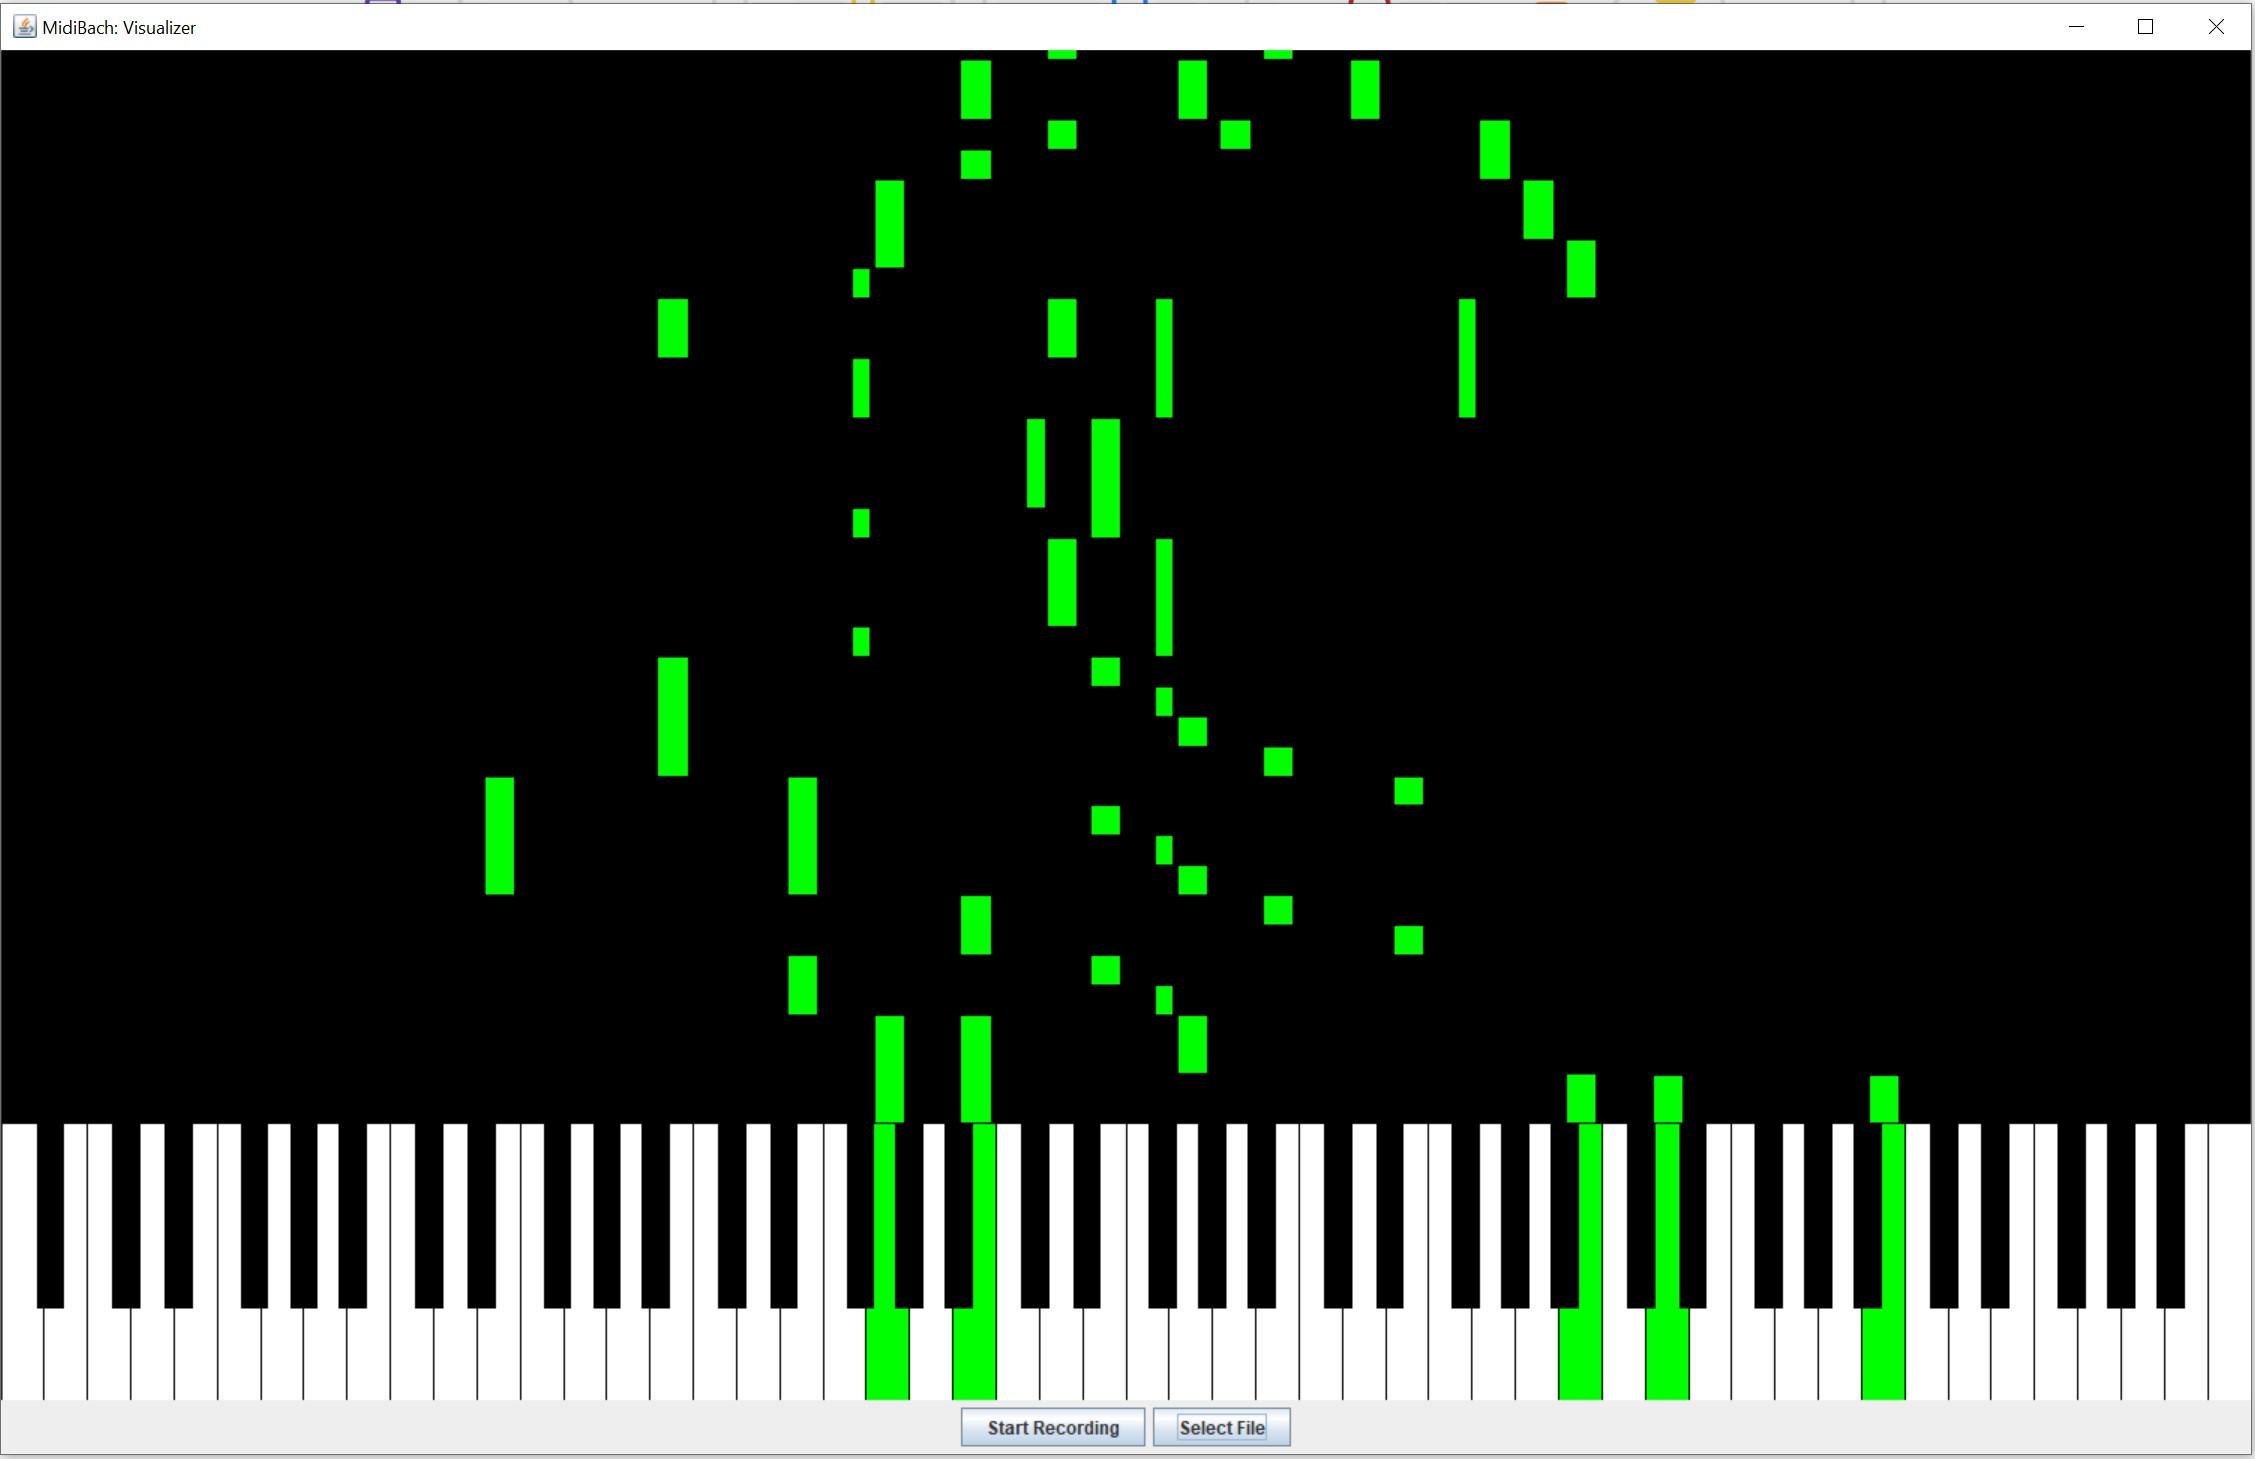
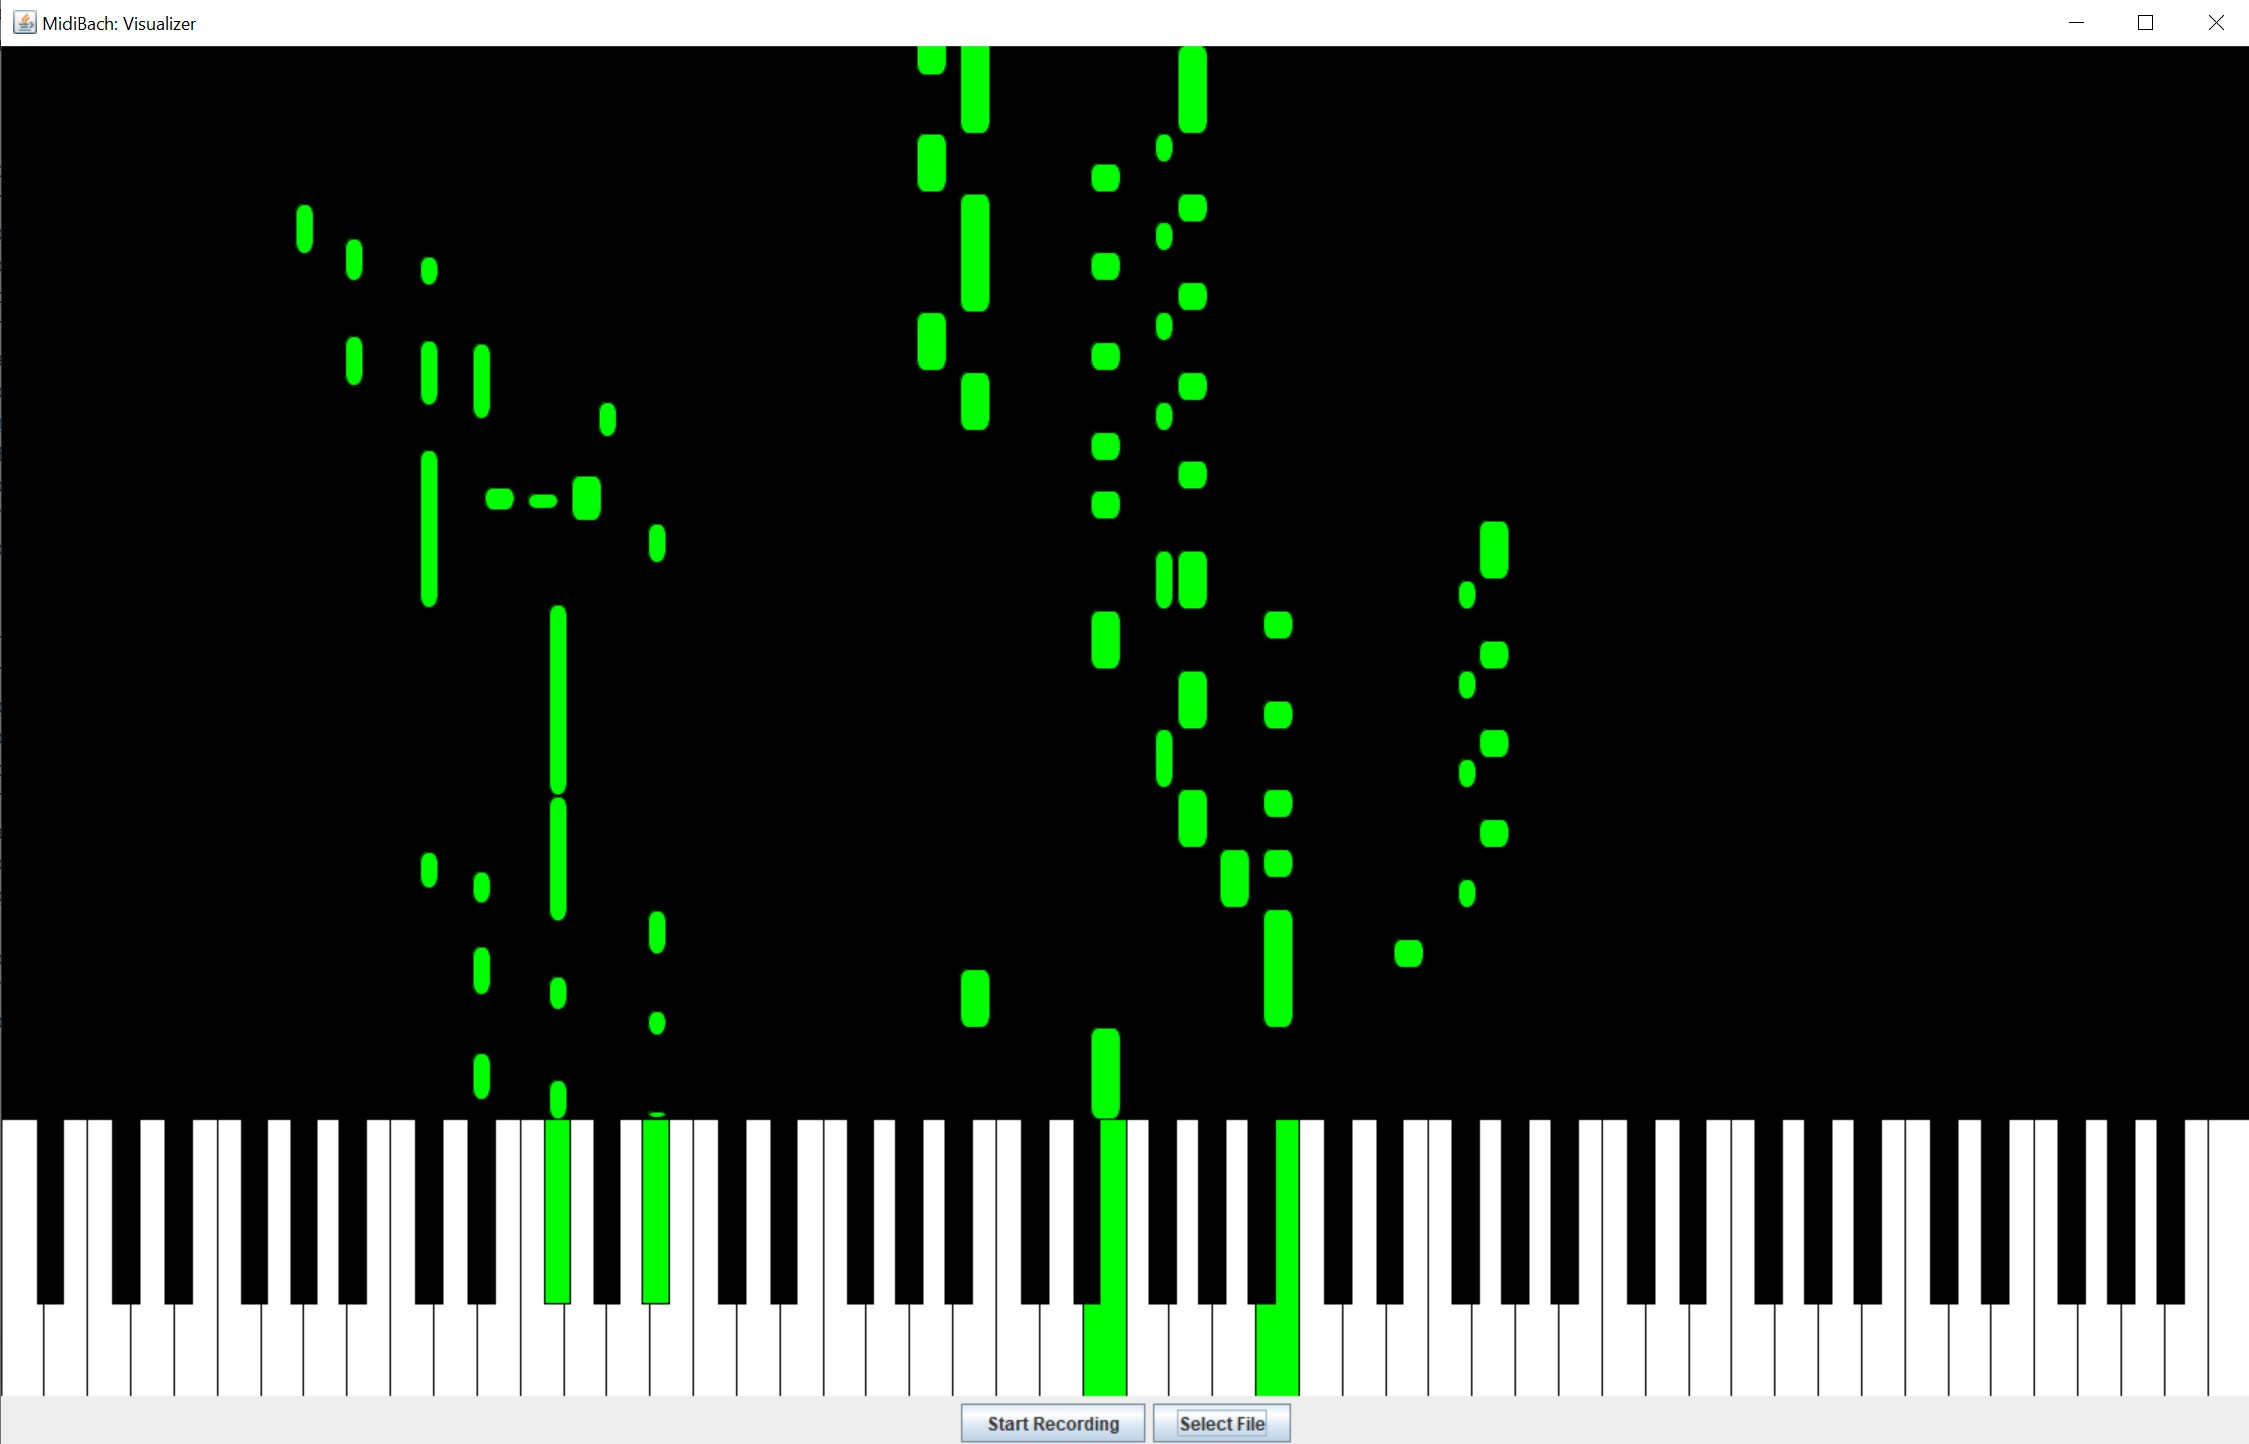
updated photo

diff --git a/src/io/markzhang/midibach/gui/VisualizerPanel.java b/src/io/markzhang/midibach/gui/VisualizerPanel.java
@@ -13,7 +13,6 @@ import java.awt.RenderingHints;
 import java.awt.geom.Rectangle2D;
 import java.util.Collection;
 import java.util.HashMap;
-import java.util.concurrent.ConcurrentHashMap;
 
 public class VisualizerPanel extends JPanel{
 
@@ -66,7 +65,7 @@ public class VisualizerPanel extends JPanel{
     protected void paintComponent(Graphics g) {
         super.paintComponent(g);
         long bottomTime = System.nanoTime() / 1000;
-        long topTime = bottomTime - 5 * 1000000;
+        long topTime = bottomTime - instance.getFallingMicroSeconds();
         final Graphics2D g2d = (Graphics2D) g;
         g2d.setRenderingHint(RenderingHints.KEY_ANTIALIASING,RenderingHints.VALUE_ANTIALIAS_ON);
 
@@ -147,13 +146,12 @@ public class VisualizerPanel extends JPanel{
             width = width*0.7;
             g2d.setColor(Color.GREEN);
             double viewHeight = getHeight() - whiteKeyHeight;
-            double yTop = (double) (topTime - v.getEndTime() + 10*1000000) / (bottomTime - topTime) * viewHeight;
-            double yBottom = (double) (topTime - v.getStartTime() + 10*1000000) / (bottomTime - topTime) * viewHeight;
+            double yTop = (double) (topTime - (v.getEndTime() - 10*1000000)) / (bottomTime - topTime) * viewHeight;
+            double yBottom = (double) (topTime - (v.getStartTime() - 10*1000000)) / (bottomTime - topTime) * viewHeight;
             yBottom = Math.min(yBottom, viewHeight);
             g2d.fillRoundRect((int)xLoc, (int)yTop, (int)width, (int)(yBottom-yTop),10,15);
             g2d.setColor(Color.BLACK);
             g2d.drawRoundRect((int)xLoc, (int)yTop, (int)width, (int)(yBottom-yTop),10,15);
         });
-
     }
 }

diff --git a/src/io/markzhang/midibach/gui/VisualizerFrame.java b/src/io/markzhang/midibach/gui/VisualizerFrame.java
@@ -103,7 +103,7 @@ public class VisualizerFrame extends JFrame {
                     sequence = MidiSystem.getSequence(selectedFile);
 
                     double microsecPerTick = sequence.getMicrosecondLength() * 1.0 / sequence.getTickLength();
-                    long startTime = System.nanoTime()/1000 + 5*1000000;
+                    long startTime = System.nanoTime()/1000 + main.getFallingMicroSeconds();
                     ConcurrentHashMap<Integer, Note> pressedNotes = new ConcurrentHashMap<>();
                     for (Track track : sequence.getTracks()) {
                         long tick = 0;
@@ -140,7 +140,7 @@ public class VisualizerFrame extends JFrame {
                     Sequencer sequencer = MidiSystem.getSequencer();
                     sequencer.setSequence(sequence);
                     sequencer.open();
-                    long timeDelta = System.nanoTime()/1000 - (startTime - 5*1000000);
+                    long timeDelta = System.nanoTime()/1000 - (startTime - main.getFallingMicroSeconds());
                     timeDelta /= 1000;
                     new java.util.Timer().schedule(
                             new java.util.TimerTask() {

diff --git a/src/io/markzhang/midibach/MidiBach.java b/src/io/markzhang/midibach/MidiBach.java
@@ -9,6 +9,8 @@ import java.util.concurrent.ConcurrentHashMap;
 
 public class MidiBach {
 
+    private int fallingMicroSeconds = 5 * 1000000;
+
     private ConcurrentHashMap<Integer, Note> pressedNotes = new ConcurrentHashMap<>(); // noteVal, Note
     private Timeline timeline = new Timeline();
     private Timeline playbackTL = new Timeline();
@@ -87,4 +89,11 @@ public class MidiBach {
         return playbackTL;
     }
 
+    public int getFallingMicroSeconds() {
+        return fallingMicroSeconds;
+    }
+
+    public void setFallingMicroSeconds(int fallingMicroSeconds) {
+        this.fallingMicroSeconds = fallingMicroSeconds;
+    }
 }
